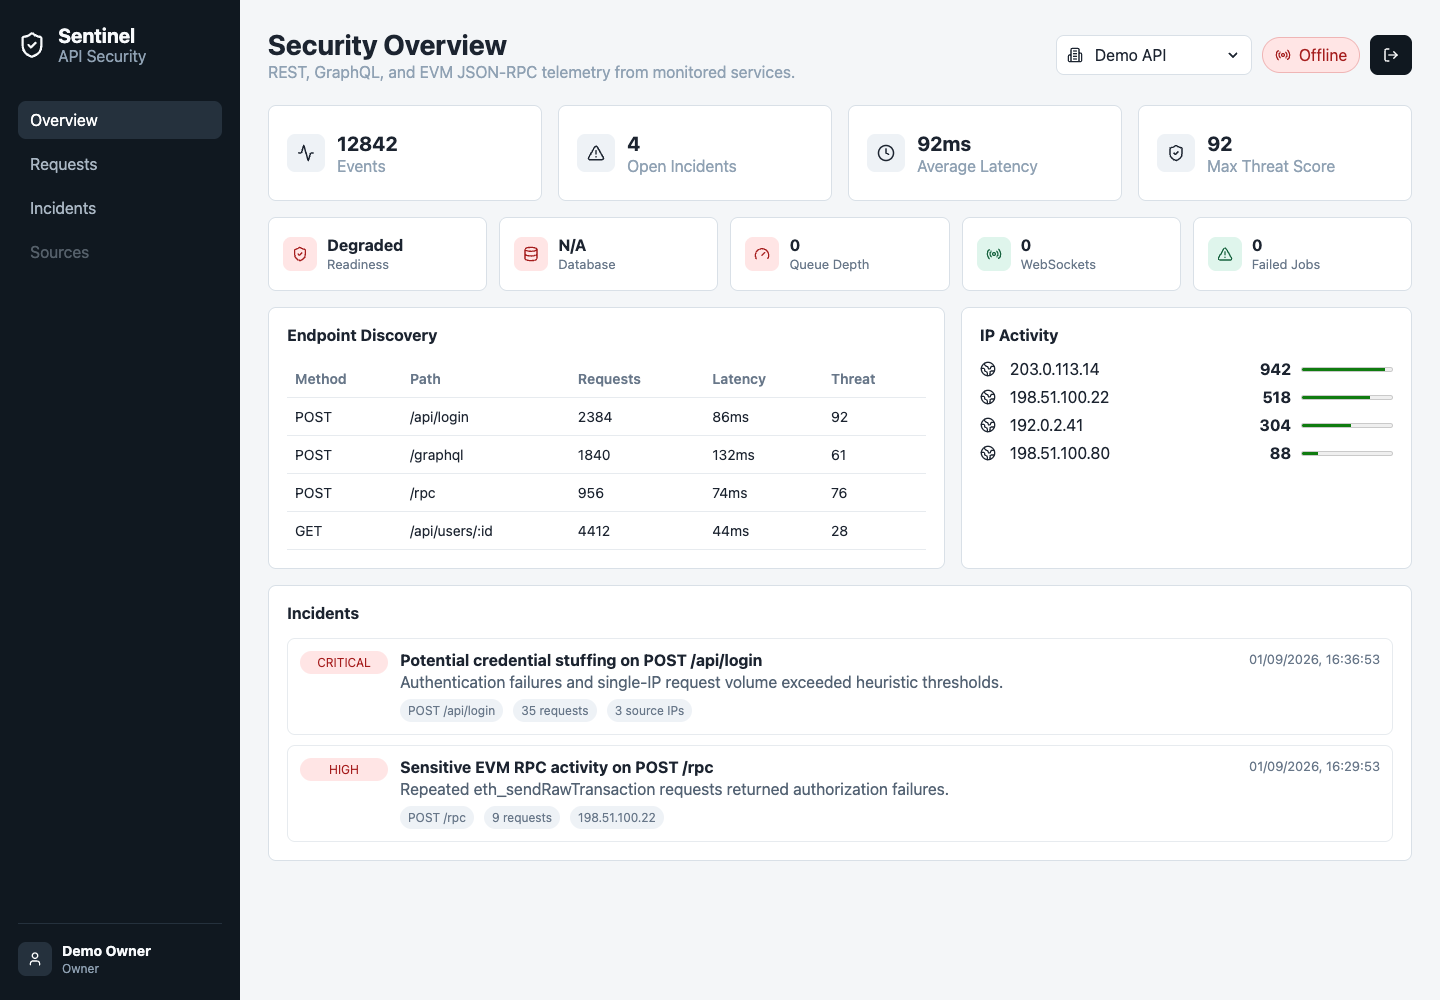
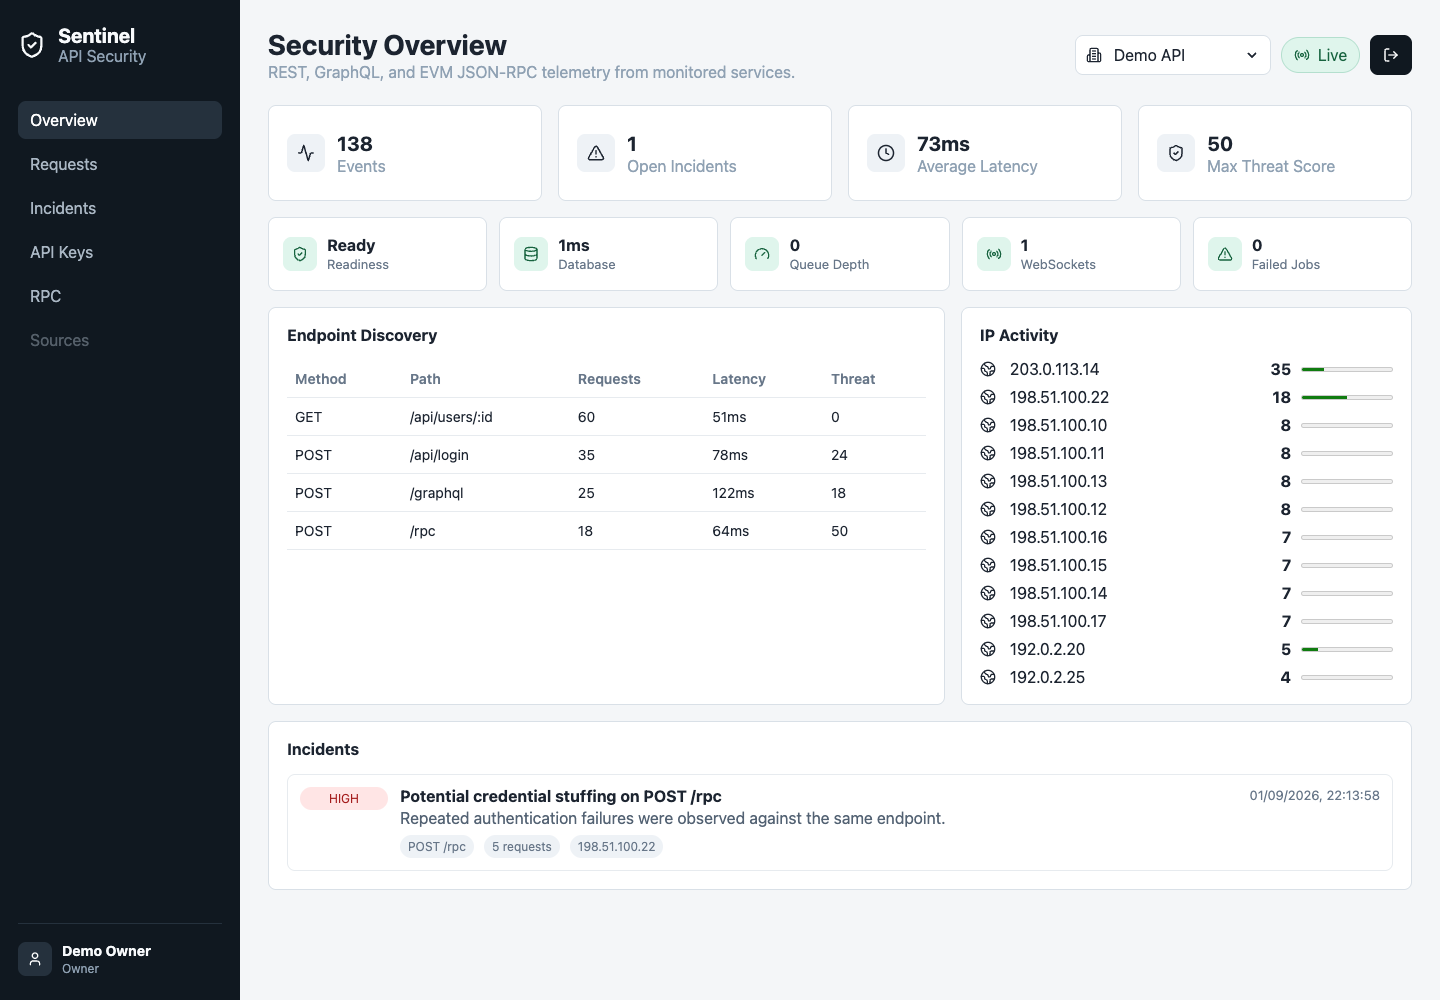
fix: harden live pipeline verification

diff --git a/apps/api/src/observability.ts b/apps/api/src/observability.ts
@@ -25,8 +25,11 @@ export function createRuntimeMetrics(): RuntimeMetrics {
   };
 }
 
-export async function buildReadiness(pool: pg.Pool, redis: Redis, streamName: string) {
-  const [database, queue] = await Promise.all([measureDatabase(pool), measureQueue(redis, streamName)]);
+export async function buildReadiness(pool: pg.Pool, redis: Redis, streamName: string, groupName: string) {
+  const [database, queue] = await Promise.all([
+    measureDatabase(pool),
+    measureQueue(redis, streamName, groupName)
+  ]);
 
   return {
     status: database.ok && queue.ok ? "ready" : "degraded",
@@ -42,11 +45,12 @@ export async function buildMetricsSnapshot(
   pool: pg.Pool,
   redis: Redis,
   streamName: string,
+  groupName: string,
   liveHub: LiveHubStats
 ) {
   const [database, queueDepth] = await Promise.all([
     measureDatabase(pool),
-    redis.xlen(streamName).catch(() => -1)
+    measureQueueBacklog(redis, streamName, groupName)
   ]);
 
   return {
@@ -80,7 +84,7 @@ export function toPrometheus(snapshot: Awaited<ReturnType<typeof buildMetricsSna
     "# HELP sentinel_failed_jobs_total Failed ingestion or processing jobs.",
     "# TYPE sentinel_failed_jobs_total counter",
     `sentinel_failed_jobs_total ${snapshot.failedJobs}`,
-    "# HELP sentinel_queue_depth Current Redis Stream depth.",
+    "# HELP sentinel_queue_depth Current Redis Stream consumer backlog.",
     "# TYPE sentinel_queue_depth gauge",
     `sentinel_queue_depth ${snapshot.queueDepth}`,
     "# HELP sentinel_database_latency_ms Database health query latency.",
@@ -106,13 +110,47 @@ async function measureDatabase(pool: pg.Pool) {
   }
 }
 
-async function measureQueue(redis: Redis, streamName: string) {
+async function measureQueue(redis: Redis, streamName: string, groupName: string) {
   const started = performance.now();
 
   try {
-    const depth = await redis.xlen(streamName);
+    const depth = await measureQueueBacklog(redis, streamName, groupName);
     return { ok: true, latencyMs: Math.round(performance.now() - started), depth };
   } catch {
     return { ok: false, latencyMs: -1, depth: -1 };
   }
+}
+
+async function measureQueueBacklog(redis: Redis, streamName: string, groupName: string) {
+  try {
+    const groups = (await redis.xinfo("GROUPS", streamName)) as unknown[];
+    const group =
+      readRedisField(groups, "name") === groupName
+        ? groups
+        : groups.find((entry) => readRedisField(entry, "name") === groupName);
+    if (!group) return Number(await redis.xlen(streamName));
+
+    const lag = readRedisNumberField(group, "lag");
+    const pending = readRedisNumberField(group, "pending");
+    if (lag >= 0 && pending >= 0) return lag + pending;
+    if (lag >= 0) return lag;
+    if (pending >= 0) return pending;
+    return Number(await redis.xlen(streamName));
+  } catch (error) {
+    if (error instanceof Error && error.message.includes("ERR no such key")) return 0;
+    throw error;
+  }
+}
+
+function readRedisField(entry: unknown, field: string) {
+  if (!Array.isArray(entry)) return undefined;
+  const index = entry.findIndex((value) => value === field);
+  return entry[index + 1];
+}
+
+function readRedisNumberField(entry: unknown, field: string) {
+  const value = readRedisField(entry, field);
+  if (typeof value !== "string" && typeof value !== "number") return -1;
+  const parsed = Number(value);
+  return Number.isFinite(parsed) ? parsed : -1;
 }

diff --git a/apps/worker/src/db.test.ts b/apps/worker/src/db.test.ts
@@ -1,0 +1,71 @@
+import { describe, expect, it, vi } from "vitest";
+import { SentinelEvent, ThreatAssessment } from "@sentinel/shared";
+import { createIncidentIfNeeded, persistEvent } from "./db.js";
+
+const event: SentinelEvent = {
+  id: "event-jsonb-1",
+  traceId: "0123456789abcdef0123456789abcdef",
+  projectId: "demo",
+  serviceName: "api",
+  environment: "test",
+  timestamp: "2026-09-01T20:12:00.000Z",
+  kind: "rest",
+  request: {
+    method: "POST",
+    path: "/api/login",
+    route: "/api/login",
+    ip: "203.0.113.10",
+    userAgent: "vitest",
+    headers: { authorization: "[REDACTED]" },
+    query: { source: "test" },
+    body: { email: "owner@sentinel.local" },
+    auth: { present: true, failed: true }
+  },
+  response: {
+    statusCode: 401,
+    latencyMs: 44,
+    bodyBytes: 120
+  }
+};
+
+const assessment: ThreatAssessment = {
+  score: 25,
+  severity: "medium",
+  signals: [{ name: "auth_failure", weight: 24, reason: "Authentication failed or was rejected" }]
+};
+
+describe("worker database persistence", () => {
+  it("serializes jsonb insert values before sending them to Postgres", async () => {
+    const query = vi.fn().mockResolvedValue({ rows: [], rowCount: 1 });
+    const pool = { query };
+
+    await persistEvent(pool as never, event, assessment);
+
+    const params = query.mock.calls[0]?.[1] as unknown[];
+    expect(JSON.parse(params[13] as string)).toEqual(event.request.headers);
+    expect(JSON.parse(params[14] as string)).toEqual(event.request.query);
+    expect(JSON.parse(params[15] as string)).toEqual(event.request.body);
+    expect(JSON.parse(params[30] as string)).toEqual(assessment.signals);
+  });
+
+  it("keeps incident time windows ordered when events arrive out of order", async () => {
+    const query = vi
+      .fn()
+      .mockResolvedValueOnce({ rows: [], rowCount: null })
+      .mockResolvedValueOnce({ rows: [{ id: "incident-1", attacker_ips: ["203.0.113.9"] }], rowCount: 1 })
+      .mockResolvedValueOnce({ rows: [], rowCount: 1 })
+      .mockResolvedValueOnce({ rows: [], rowCount: null });
+    const release = vi.fn();
+    const pool = { connect: vi.fn().mockResolvedValue({ query, release }) };
+
+    await createIncidentIfNeeded(pool as never, event, assessment);
+
+    const updateSql = query.mock.calls[2]?.[0] as string;
+    const updateParams = query.mock.calls[2]?.[1] as unknown[];
+
+    expect(updateSql).toContain("started_at = least(started_at, $6)");
+    expect(updateSql).toContain("last_seen_at = greatest(last_seen_at, $6)");
+    expect(updateParams[5]).toBe(event.timestamp);
+    expect(release).toHaveBeenCalledOnce();
+  });
+});

diff --git a/apps/worker/src/db.ts b/apps/worker/src/db.ts
@@ -64,9 +64,9 @@ export async function persistEvent(pool: pg.Pool, event: SentinelEvent, assessme
           event.request.route,
           event.request.ip,
           event.request.userAgent,
-          event.request.headers,
-          event.request.query,
-          event.request.body ?? null,
+          toJsonb(event.request.headers),
+          toJsonb(event.request.query),
+          toJsonb(event.request.body ?? null),
           event.response.statusCode,
           event.response.latencyMs,
           event.response.bodyBytes ?? null,
@@ -81,7 +81,7 @@ export async function persistEvent(pool: pg.Pool, event: SentinelEvent, assessme
           event.evmRpc?.contractAddress,
           assessment.score,
           assessment.severity,
-          assessment.signals
+          toJsonb(assessment.signals)
         ]
       );
     }
@@ -121,14 +121,15 @@ export async function createIncidentIfNeeded(
             signals = $4,
             attacker_ips = $5,
             request_count = request_count + 1,
-            last_seen_at = $6
+            started_at = least(started_at, $6),
+            last_seen_at = greatest(last_seen_at, $6)
         where id = $1
         `,
         [
           existing.rows[0].id,
           assessment.severity,
           fingerprint.description,
-          assessment.signals,
+          toJsonb(assessment.signals),
           JSON.stringify(attackerIps),
           event.timestamp
         ]
@@ -150,7 +151,7 @@ export async function createIncidentIfNeeded(
           assessment.severity,
           fingerprint.title,
           fingerprint.description,
-          assessment.signals,
+          toJsonb(assessment.signals),
           fingerprint.affectedEndpoint,
           JSON.stringify(mergeIps([], fingerprint.attackerIp)),
           event.timestamp
@@ -171,4 +172,8 @@ function mergeIps(existing: unknown, ip?: string) {
   const values = Array.isArray(existing) ? existing.filter((value) => typeof value === "string") : [];
   if (ip && !values.includes(ip)) values.push(ip);
   return values;
+}
+
+function toJsonb(value: unknown) {
+  return JSON.stringify(value);
 }

diff --git a/apps/api/src/observability.test.ts b/apps/api/src/observability.test.ts
@@ -1,0 +1,64 @@
+import { describe, expect, it, vi } from "vitest";
+import { buildMetricsSnapshot, createRuntimeMetrics } from "./observability.js";
+
+const pool = {
+  query: vi.fn().mockResolvedValue({ rows: [{ ok: 1 }] })
+};
+
+const liveHub = {
+  connectionCount: () => 0
+};
+
+describe("api observability", () => {
+  it("reports queue depth as consumer backlog, not retained stream length", async () => {
+    const redis = {
+      xinfo: vi
+        .fn()
+        .mockResolvedValue([
+          "name",
+          "sentinel-workers",
+          "consumers",
+          "1",
+          "pending",
+          "0",
+          "last-delivered-id",
+          "1-0",
+          "lag",
+          "0"
+        ]),
+      xlen: vi.fn().mockResolvedValue(138)
+    };
+
+    const snapshot = await buildMetricsSnapshot(
+      createRuntimeMetrics(),
+      pool as never,
+      redis as never,
+      "sentinel:events",
+      "sentinel-workers",
+      liveHub
+    );
+
+    expect(snapshot.queueDepth).toBe(0);
+    expect(redis.xlen).not.toHaveBeenCalled();
+  });
+
+  it("includes pending entries in queue depth", async () => {
+    const redis = {
+      xinfo: vi.fn().mockResolvedValue([
+        ["name", "sentinel-workers", "consumers", 1, "pending", 3, "last-delivered-id", "1-0", "lag", 7]
+      ]),
+      xlen: vi.fn().mockResolvedValue(20)
+    };
+
+    const snapshot = await buildMetricsSnapshot(
+      createRuntimeMetrics(),
+      pool as never,
+      redis as never,
+      "sentinel:events",
+      "sentinel-workers",
+      liveHub
+    );
+
+    expect(snapshot.queueDepth).toBe(10);
+  });
+});

diff --git a/apps/api/src/server.ts b/apps/api/src/server.ts
@@ -47,9 +47,9 @@ export async function buildServer() {
   });
 
   app.get("/health", async () => ({ ok: true }));
-  app.get("/ready", async () => buildReadiness(pool, redis, config.streamName));
+  app.get("/ready", async () => buildReadiness(pool, redis, config.streamName, config.groupName));
   app.get("/metrics", async (_request, reply) => {
-    const snapshot = await buildMetricsSnapshot(metrics, pool, redis, config.streamName, liveHub);
+    const snapshot = await buildMetricsSnapshot(metrics, pool, redis, config.streamName, config.groupName, liveHub);
     reply.header("content-type", "text/plain; version=0.0.4").send(toPrometheus(snapshot));
   });
 
@@ -120,7 +120,7 @@ export async function buildServer() {
     });
   });
   app.get("/v1/analytics/system", async () =>
-    buildMetricsSnapshot(metrics, pool, redis, config.streamName, liveHub)
+    buildMetricsSnapshot(metrics, pool, redis, config.streamName, config.groupName, liveHub)
   );
 
   app.get("/v1/api-keys", async (request, reply) => {

diff --git a/apps/api/src/config.ts b/apps/api/src/config.ts
@@ -4,6 +4,7 @@ export type ApiConfig = {
   redisUrl: string;
   sentinelApiKey: string;
   streamName: string;
+  groupName: string;
 };
 
 export function loadConfig(): ApiConfig {
@@ -12,6 +13,7 @@ export function loadConfig(): ApiConfig {
     databaseUrl: process.env.DATABASE_URL ?? "postgres://sentinel:sentinel@localhost:5432/sentinel",
     redisUrl: process.env.REDIS_URL ?? "redis://localhost:6379",
     sentinelApiKey: process.env.SENTINEL_API_KEY ?? "dev-sentinel-key",
-    streamName: process.env.SENTINEL_STREAM ?? "sentinel:events"
+    streamName: process.env.SENTINEL_STREAM ?? "sentinel:events",
+    groupName: process.env.SENTINEL_GROUP ?? "sentinel-workers"
   };
 }

diff --git a/apps/api/src/db.ts b/apps/api/src/db.ts
@@ -19,11 +19,11 @@ export async function getOverview(pool: pg.Pool, projectId = "demo") {
     ]),
     pool.query(
       `
-      select path, method, count(*)::int as requests, avg(latency_ms)::float as latency,
+      select coalesce(route, path) as path, method, count(*)::int as requests, avg(latency_ms)::float as latency,
              max(threat_score)::int as max_threat_score
       from api_events
       where project_id = $1
-      group by path, method
+      group by coalesce(route, path), method
       order by requests desc
       limit 12
     `,

diff --git a/CHANGELOG.md b/CHANGELOG.md
@@ -25,4 +25,5 @@ Initial alpha release.
 - Added dashboard sign-in shell, operator role display, and project switcher.
 - Added API key list, create, and revoke endpoints with dashboard key management UI.
 - Added `@sentinel/web3` with standalone RPC client, EIP-1193 wrapper, viem-compatible transport, and RPC dashboard visibility.
+- Verified the live local pipeline against Postgres and Redis, including SDK-style seed traffic, worker persistence, grouped incidents, normalized endpoint discovery, and queue backlog metrics.
 - Added CI, issue templates, contribution guide, security policy, roadmap, and dashboard screenshot.

diff --git a/README.md b/README.md
@@ -130,6 +130,8 @@ Seed realistic demo traffic after the API and worker are running:
 npm run seed:demo
 ```
 
+The seed script posts events through the ingestion API. With Postgres, Redis, the API, and worker running, those events move through the live pipeline before appearing in the dashboard.
+
 The dashboard runs at `http://localhost:5173` and the API runs at `http://localhost:8080`.
 
 Operational endpoints:

diff --git a/docs/roadmap.md b/docs/roadmap.md
@@ -18,6 +18,7 @@
 - API key list, create, and revoke workflows
 - Web3 RPC SDK with EIP-1193 and viem-compatible transport helpers
 - RPC dashboard view with method, provider, chain, latency, and threat context
+- Live local pipeline verification with Postgres, Redis, ingestion, worker persistence, incidents, and dashboard reads
 
 ## v0.2 Product Hardening
 
